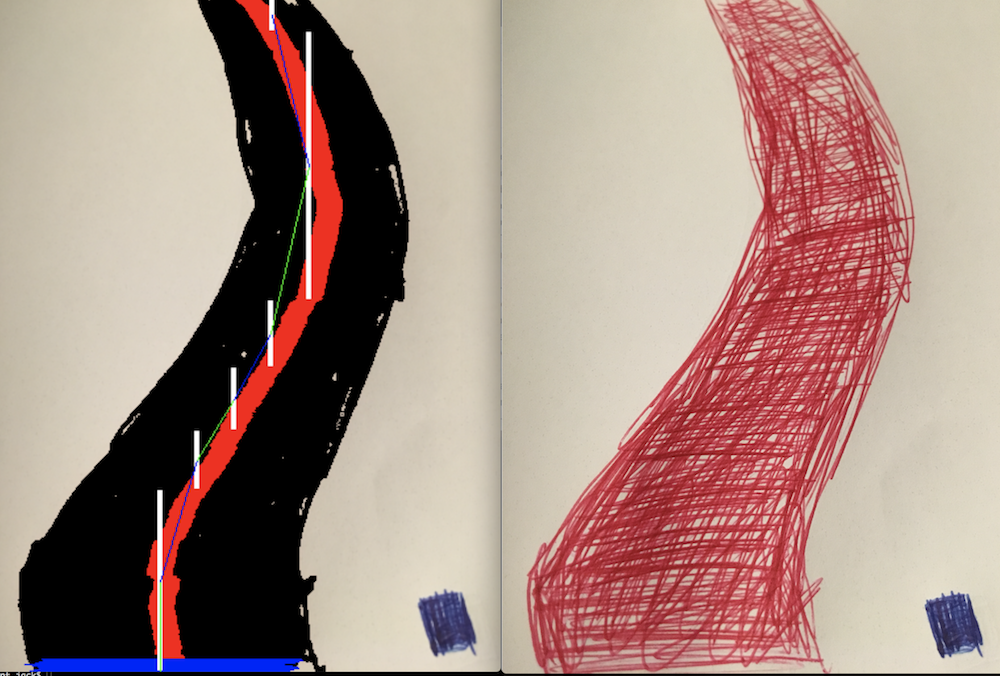
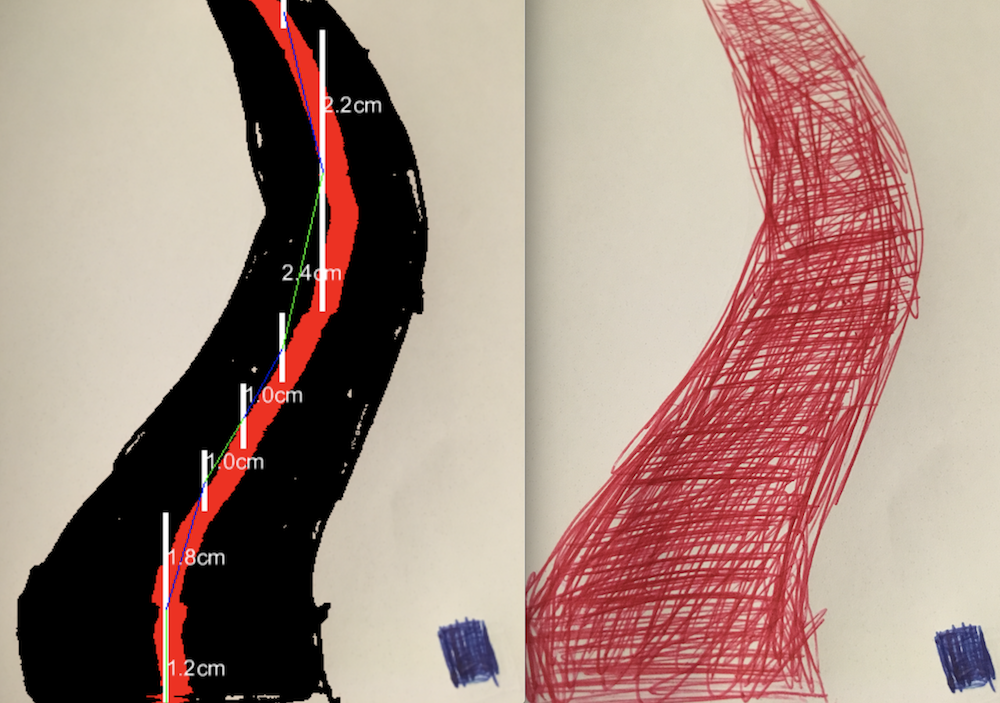
add line distance

diff --git a/proof-of-concept/index.js b/proof-of-concept/index.js
@@ -42,8 +42,8 @@ var calibrate = function (image) {
 }
 
 // https://stackoverflow.com/questions/25277023/complete-solution-for-drawing-1-
-// pixel-line-on-html5-canvas http://jsfiddle.net/m1erickson/3j7hpng0/ Refer to:
-// http://rosettacode.org/wiki/Bitmap/Bresenham's_line_algorithm#JavaScript
+// pixel-line-on-html5-canvas http://jsfiddle.net/m1erickson/3j7hpng0/ Refer
+// to: http://rosettacode.org/wiki/Bitmap/Bresenham's_line_algorithm#JavaScript
 var bline = function bline(image, color, x0, y0, x1, y1) {
     var dx = Math.abs(x1 - x0),
         sx = x0 < x1
@@ -108,7 +108,6 @@ var extractRoute = function (image, pixelsToMeter) {
         var centerBlackPosition = Math.round(sum / blackPixels);
         addRoute(centerBlackPosition, y)
 
-
         var leftRightColorMark = 10
         var color = Jimp.rgbaToInt(255, 0, 0, 255);
 
@@ -141,7 +140,7 @@ var extractRoute = function (image, pixelsToMeter) {
             ? 0
             : 255, 255);
 
-            var line
+        var line
         if (route.prev) {
             line = {
                 x0: route.prev.center,
@@ -157,7 +156,7 @@ var extractRoute = function (image, pixelsToMeter) {
                 y1: Math.round((route.to + route.from) / 2)
             }
         }
-        line.distanceMeters = Math.sqrt(Math.pow(Math.abs(line.x0 - line.x1),2) + Math.pow(Math.abs(line.y0 - line.y1),2)) / pixelsToMeter;
+        line.distanceMeters = Math.sqrt(Math.pow(Math.abs(line.x0 - line.x1), 2) + Math.pow(Math.abs(line.y0 - line.y1), 2)) / pixelsToMeter;
         out.push(line)
         bline(image, color, line.x0, line.y0, line.x1, line.y1)
     }
@@ -193,10 +192,15 @@ Jimp.read(process.argv[2] || "../data/picture-from-iphone-45-degree.png", functi
     contrast(image)
 
     var pixelsToMeter = calibrate(image)
-    extractRoute(image, pixelsToMeter)
-
-    image.resize(Jimp.AUTO, originalWidth)
-    image.write("processed.png")
-
-    exec('open processed.png').unref()
+    var routes = extractRoute(image, pixelsToMeter)
+    Jimp
+        .loadFont(Jimp.FONT_SANS_16_WHITE)
+        .then(function (font) {
+            for (var line of routes) {
+                image.print(font, line.x0, ((line.y0 + line.y1) / 2), (line.distanceMeters * 100).toFixed(1) + "cm");
+            }
+            image.resize(Jimp.AUTO, originalWidth)
+            image.write("processed.png")
+            exec('open processed.png').unref()
+        }).catch(console.error);
 });
